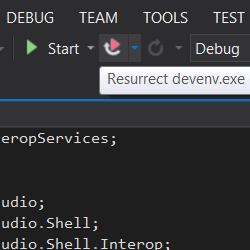
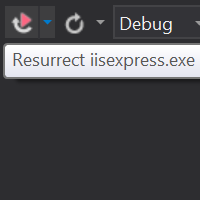
Version up to 1.2. VS2010 support added.

diff --git a/src/Resurrect/Properties/AssemblyInfo.cs b/src/Resurrect/Properties/AssemblyInfo.cs
@@ -28,8 +28,8 @@ using System.Runtime.InteropServices;
 // You can specify all the values or you can default the Revision and Build Numbers 
 // by using the '*' as shown below:
 
-[assembly: AssemblyVersion("1.1.0.0")]
-[assembly: AssemblyFileVersion("1.1.0.0")]
+[assembly: AssemblyVersion("1.2.0.0")]
+[assembly: AssemblyFileVersion("1.2.0.0")]
 
 
 

diff --git a/README.md b/README.md
@@ -1,3 +1,3 @@
 #Resurrect
 
-Visual Studio extension which allows to attach debugger to previously debugged processes. Attach operation is based on names of the processes. Both native and managed debugging engines are always used (you can debug through c# and c++ code during the same debugging session). Processes to be re-attached are correlated with solutions to which they had been previously attached. Information about recently attached targets is almost immediately known across all Visual Studio instances opened at once. Resurrect uses system registry as a data storage. If you want the compiled artifact, grab it from [here](http://visualstudiogallery.msdn.microsoft.com/043c7c91-e127-4616-bce0-39b869cee4b3).
+Visual Studio extension which resurrects debugging session with previously debugged processes re-attached. Previously chosen debugging engines are also remembered. Attach operation is based on names of the processes. Processes to be re-attached are correlated with solutions to which they had been previously attached. Information about recently attached targets is almost immediately known across all Visual Studio instances opened at once. Resurrect uses system registry as a data storage. If you want the compiled artifact, grab it from [here](http://visualstudiogallery.msdn.microsoft.com/043c7c91-e127-4616-bce0-39b869cee4b3).
